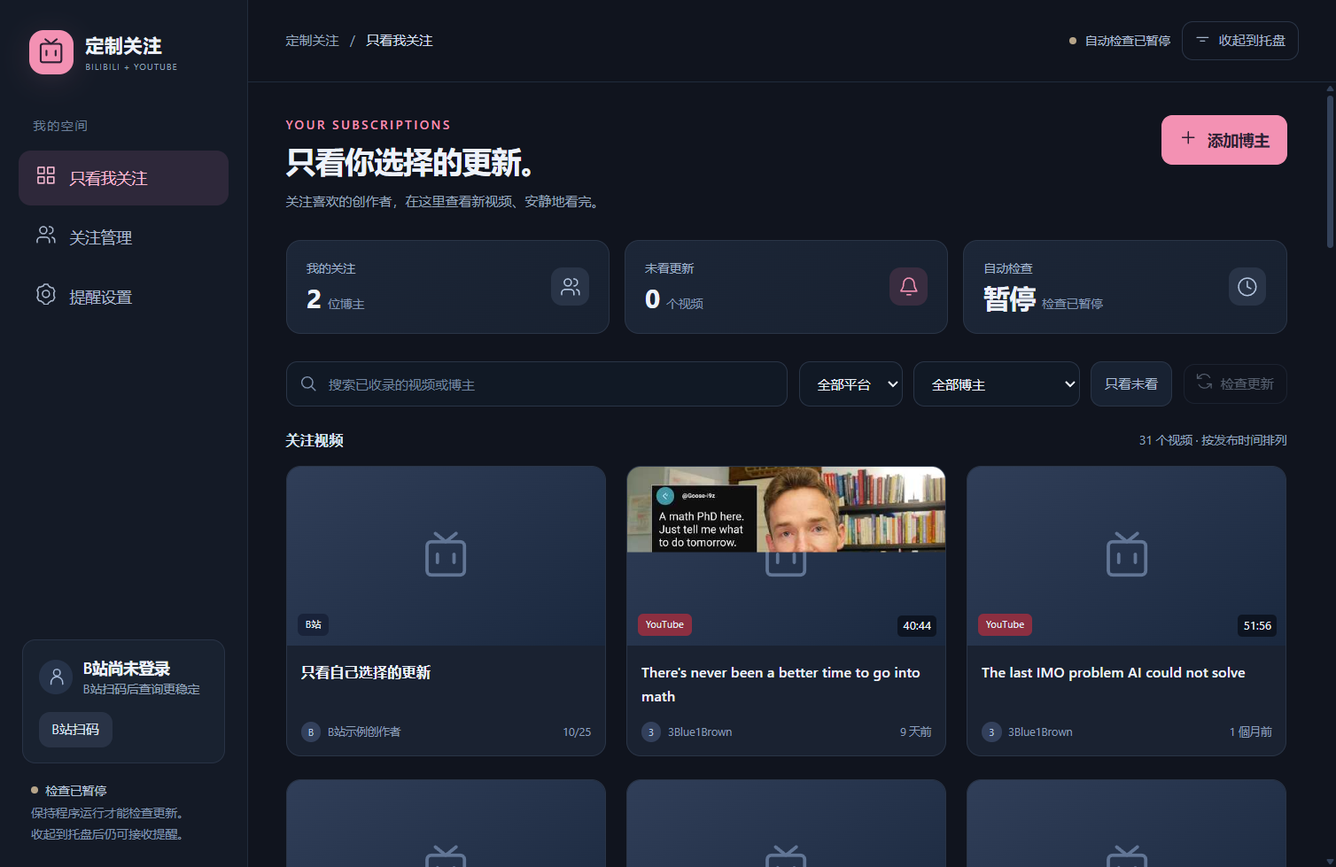
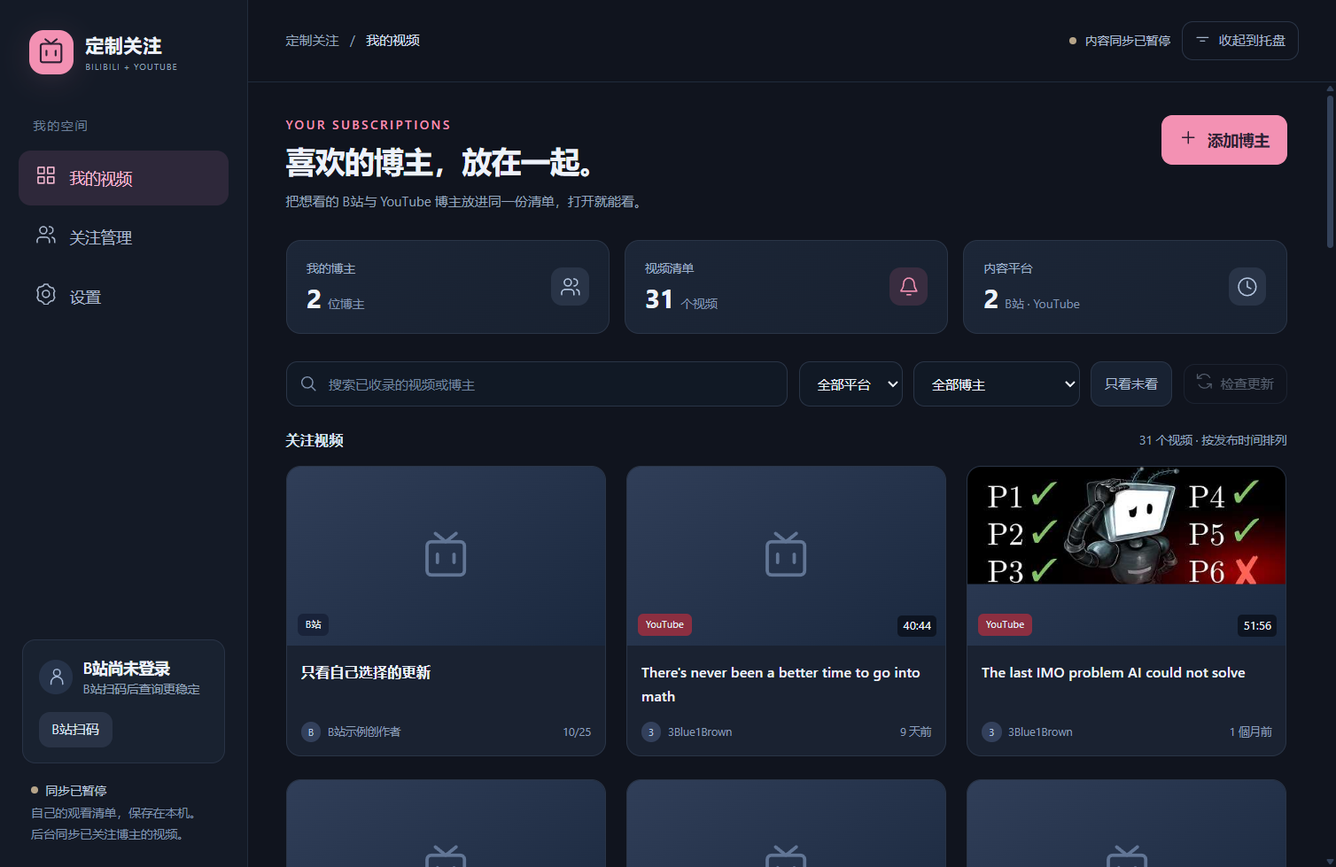
以定制关注统一呈现双平台博主和视频清单

diff --git a/assets/index.html b/assets/index.html
@@ -27,35 +27,35 @@
     <div class="brand"><div class="brand-symbol" data-icon="tv"></div><div><div class="brand-title">定制关注</div><div class="brand-sub">BILIBILI + YOUTUBE</div></div></div>
     <div class="section-caption">我的空间</div>
     <nav aria-label="主要导航">
-      <button class="nav-item active" data-page="feed"><span data-icon="grid"></span><span>只看我关注</span><span class="nav-count" id="navUnread" hidden>0</span></button>
+      <button class="nav-item active" data-page="feed"><span data-icon="grid"></span><span>我的视频</span><span class="nav-count" id="navUnread" hidden>0</span></button>
       <button class="nav-item" data-page="channels"><span data-icon="users"></span><span>关注管理</span></button>
-      <button class="nav-item" data-page="settings"><span data-icon="settings"></span><span>提醒设置</span></button>
+      <button class="nav-item" data-page="settings"><span data-icon="settings"></span><span>设置</span></button>
     </nav>
     <div class="sidebar-bottom">
       <div class="account-card"><div class="account-top"><div class="account-avatar" data-icon="user"></div><div><div class="account-name" id="accountName">尚未登录</div><div class="account-state" id="accountState">扫码后查询更稳定</div></div></div><div class="account-actions"><button id="loginButton">扫码登录</button><button id="logoutButton" hidden>退出登录</button></div></div>
-      <div class="local-note"><strong><span class="status-dot" id="sidebarDot"></span><span id="sidebarStatus">本地运行</span></strong>保持程序运行才能检查更新。<br>收起到托盘后仍可接收提醒。</div>
+      <div class="local-note"><strong><span class="status-dot" id="sidebarDot"></span><span id="sidebarStatus">本地运行</span></strong>自己的观看清单，保存在本机。<br>后台同步已关注博主的视频。</div>
     </div>
   </aside>
   <main class="main">
-    <header class="topbar"><div class="breadcrumb"><span>定制关注</span><span>/</span><b id="breadcrumbTitle">只看我关注</b></div><div class="top-actions"><div class="status-chip"><span class="status-dot" id="topDot"></span><span id="monitorStatus">正在连接本地服务…</span></div><button class="subtle" id="hideButton" title="收起到右下角系统托盘，继续检查更新"><span data-icon="minimize"></span>收起到托盘</button></div></header>
+    <header class="topbar"><div class="breadcrumb"><span>定制关注</span><span>/</span><b id="breadcrumbTitle">我的视频</b></div><div class="top-actions"><div class="status-chip"><span class="status-dot" id="topDot"></span><span id="monitorStatus">正在连接本地服务…</span></div><button class="subtle" id="hideButton" title="收起到右下角系统托盘，继续检查更新"><span data-icon="minimize"></span>收起到托盘</button></div></header>
     <div class="scroll-area" id="scrollArea">
       <div class="warning-banner" id="globalWarning" hidden><span data-icon="info"></span><span id="warningText"></span></div>
       <section class="page" id="feedPage">
-        <div class="page-head"><div><div class="eyebrow">YOUR SUBSCRIPTIONS</div><h1>只看你选择的更新。</h1><p class="description">关注喜欢的创作者，在这里查看新视频、安静地看完。</p></div><button class="primary" id="feedAddButton"><span data-icon="plus"></span>添加博主</button></div>
-        <div class="summary-row"><div class="summary-card"><div><div class="summary-label">我的关注</div><div class="summary-value"><span id="channelCount">0</span><span class="summary-unit">位博主</span></div></div><div class="summary-icon" data-icon="users"></div></div><div class="summary-card"><div><div class="summary-label">未看更新</div><div class="summary-value"><span id="unreadCount">0</span><span class="summary-unit">个视频</span></div></div><div class="summary-icon pink" data-icon="bell"></div></div><div class="summary-card"><div><div class="summary-label">自动检查</div><div class="summary-value"><span id="intervalCount">5</span><span class="summary-unit" id="intervalUnit">分钟 / 次</span></div></div><div class="summary-icon" data-icon="clock"></div></div></div>
+        <div class="page-head"><div><div class="eyebrow">YOUR SUBSCRIPTIONS</div><h1>喜欢的博主，放在一起。</h1><p class="description">把想看的 B站与 YouTube 博主放进同一份清单，打开就能看。</p></div><button class="primary" id="feedAddButton"><span data-icon="plus"></span>添加博主</button></div>
+        <div class="summary-row"><div class="summary-card"><div><div class="summary-label">我的博主</div><div class="summary-value"><span id="channelCount">0</span><span class="summary-unit">位博主</span></div></div><div class="summary-icon" data-icon="users"></div></div><div class="summary-card"><div><div class="summary-label">视频清单</div><div class="summary-value"><span id="unreadCount">0</span><span class="summary-unit">个视频</span></div></div><div class="summary-icon pink" data-icon="bell"></div></div><div class="summary-card"><div><div class="summary-label">内容平台</div><div class="summary-value"><span id="intervalCount">2</span><span class="summary-unit" id="intervalUnit">B站 · YouTube</span></div></div><div class="summary-icon" data-icon="clock"></div></div></div>
         <div class="toolbar"><div class="search-wrap"><span data-icon="search"></span><input id="videoSearch" placeholder="搜索已收录的视频或博主" aria-label="搜索已收录的视频或博主"></div><select id="platformFilter" aria-label="按平台筛选"><option value="">全部平台</option><option value="bilibili">B站</option><option value="youtube">YouTube</option></select><select id="channelFilter" aria-label="按博主筛选"><option value="">全部博主</option></select><button class="filter-toggle" id="unreadFilter" aria-pressed="false">只看未看</button><button class="subtle" id="refreshButton"><span data-icon="refresh"></span>检查更新</button></div>
         <div class="result-line"><strong id="resultTitle">关注视频</strong><span id="resultCount">0 个视频 · 按发布时间排列</span></div><div class="video-grid" id="videoGrid"></div><div id="feedEmpty" class="empty"></div>
-        <div class="feed-footnote"><span data-icon="info"></span><span>首次添加会收录近期视频，不弹出历史更新提醒。这里仅展示你手动添加的博主。</span></div>
+        <div class="feed-footnote"><span data-icon="info"></span><span>这里汇集你添加的 B站与 YouTube 博主，按平台或博主筛选即可。</span></div>
       </section>
       <section class="page" id="channelsPage" hidden>
-        <div class="page-head"><div><div class="eyebrow">CHOOSE YOUR CREATORS</div><h1>把关注留给喜欢的内容。</h1><p class="description">独立管理这份列表，不会更改你在 B站或 YouTube 的订阅关系。</p></div><button class="subtle" id="channelRefresh"><span data-icon="refresh"></span>检查更新</button></div>
+        <div class="page-head"><div><div class="eyebrow">CHOOSE YOUR CREATORS</div><h1>管理我的博主。</h1><p class="description">把想看的两个平台博主加入同一份清单，随时添加或移除。</p></div><button class="subtle" id="channelRefresh"><span data-icon="refresh"></span>检查更新</button></div>
         <div class="add-box"><div class="add-heading"><span data-icon="plus"></span><h2>添加博主</h2></div><p class="description">选择平台，再添加博主或频道。YouTube 支持频道主页链接、@账号与频道 ID。</p><div class="add-form"><select id="creatorPlatform" aria-label="添加平台"><option value="bilibili">B站</option><option value="youtube">YouTube</option></select><input id="uidInput" placeholder="昵称（如：毕导）、数字 UID 或博主主页链接" aria-label="博主昵称、主页链接或 UID"><button class="primary" id="addButton">查找 / 添加</button></div><p class="add-hint" id="creatorHint">昵称查找只列出博主候选，由你选择后再添加。添加后会开始首次检查。</p></div>
         <div class="result-line"><strong id="managedCount">我的关注 · 0 位</strong><span>可随时暂停单个博主的检查</span></div><div class="channel-list" id="channelList"></div><div class="empty" id="channelEmpty"><div class="empty-icon" data-icon="users"></div><h2>还没有添加博主</h2><p>从一位喜欢的创作者开始。登录 B站后，在上方输入昵称、UID 或主页链接。</p></div>
       </section>
       <section class="page" id="settingsPage" hidden>
-        <div class="page-head"><div><div class="eyebrow">A QUIETER WAY TO FOLLOW</div><h1>按你的节奏提醒。</h1><p class="description">减少打扰，也保留每一次值得看的更新。</p></div></div>
+        <div class="page-head"><div><div class="eyebrow">MAKE IT YOURS</div><h1>按你的习惯使用。</h1><p class="description">调整内容同步、后台运行和可选的新视频通知。</p></div></div>
         <div class="setting-section"><div class="setting-title"><span data-icon="clock"></span><h2>检查频率</h2></div><div class="setting-row first"><div><h3>自动检查间隔</h3><p>建议 5 分钟或更久。B站限制请求时，程序会自动延后重试。</p></div><label class="setting-control"><input type="number" id="intervalSetting" min="3" max="60" step="1" value="5" aria-label="自动检查间隔，分钟">分钟</label></div><div class="setting-row"><div><h3>暂停所有检查</h3><p>已有的视频仍然可以查看，恢复后继续检查更新。</p></div><label class="switch"><input id="pausedSetting" type="checkbox" aria-label="暂停所有检查"><span class="switch-track"></span></label></div></div>
-        <div class="setting-section"><div class="setting-title"><span data-icon="bell"></span><h2>桌面提醒</h2></div><div class="setting-row first"><div><h3>新视频桌面弹窗</h3><p>右下角显示更新提醒，点击可回到程序查看视频。</p></div><label class="switch"><input id="popupsSetting" type="checkbox" checked aria-label="新视频桌面弹窗"><span class="switch-track"></span></label></div><div class="setting-row"><div><h3>提醒声音</h3><p>弹窗出现时播放一声提示音。</p></div><label class="switch"><input id="soundSetting" type="checkbox" aria-label="提醒声音"><span class="switch-track"></span></label></div><div class="setting-row"><div><h3>免打扰时段</h3><p>此时段继续检查并记录更新，暂不弹窗和响铃。</p></div><label class="switch"><input id="quietSetting" type="checkbox" aria-label="免打扰时段"><span class="switch-track"></span></label></div><div class="time-controls"><label for="quietStart">从</label><input type="time" id="quietStart" value="23:00" aria-label="免打扰开始时间"><label for="quietEnd">到</label><input type="time" id="quietEnd" value="08:00" aria-label="免打扰结束时间"><span>可跨午夜；起止相同表示全天</span></div><div class="setting-row"><div><h3>试一下提醒效果</h3><p>发送一条测试弹窗，不会产生新的未看视频。</p></div><button class="subtle" id="testButton"><span data-icon="bell"></span>测试提醒</button></div></div>
+        <div class="setting-section"><div class="setting-title"><span data-icon="bell"></span><h2>新视频通知</h2></div><div class="setting-row first"><div><h3>新视频桌面弹窗</h3><p>可选的桌面通知，点击即可回到清单观看新视频。</p></div><label class="switch"><input id="popupsSetting" type="checkbox" checked aria-label="新视频桌面弹窗"><span class="switch-track"></span></label></div><div class="setting-row"><div><h3>提醒声音</h3><p>弹窗出现时播放一声提示音。</p></div><label class="switch"><input id="soundSetting" type="checkbox" aria-label="提醒声音"><span class="switch-track"></span></label></div><div class="setting-row"><div><h3>免打扰时段</h3><p>此时段继续检查并记录更新，暂不弹窗和响铃。</p></div><label class="switch"><input id="quietSetting" type="checkbox" aria-label="免打扰时段"><span class="switch-track"></span></label></div><div class="time-controls"><label for="quietStart">从</label><input type="time" id="quietStart" value="23:00" aria-label="免打扰开始时间"><label for="quietEnd">到</label><input type="time" id="quietEnd" value="08:00" aria-label="免打扰结束时间"><span>可跨午夜；起止相同表示全天</span></div><div class="setting-row"><div><h3>试一下提醒效果</h3><p>发送一条测试弹窗，不会产生新的未看视频。</p></div><button class="subtle" id="testButton"><span data-icon="bell"></span>测试提醒</button></div></div>
         <div class="setting-section"><div class="setting-title"><span data-icon="desktop"></span><h2>启动与后台</h2></div><div class="setting-row first"><div><h3>开机后自动运行</h3><p>登录 Windows 后在托盘运行，开始检查已添加的博主。</p></div><label class="switch"><input id="autostartSetting" type="checkbox" aria-label="开机后自动运行"><span class="switch-track"></span></label></div><div class="setting-save"><p class="description" id="settingsSaveHint">设置保存在这台电脑上。</p><button class="primary" id="saveSettings">保存设置</button></div></div>
         <div class="quit-row"><p>关闭窗口会收起到托盘。完全退出后不再检查更新；电脑休眠或关机时也无法提醒。</p><button class="subtle danger" id="quitButton"><span data-icon="power"></span>完全退出程序</button></div>
       </section>
@@ -89,11 +89,11 @@ async function call(name,...args){try{if(!window.pywebview?.api?.[name]){toast('
 function formatDate(ts,detail=false){if(!ts)return '尚未检查';const d=new Date(Number(ts)*1000);if(!Number.isFinite(d.getTime()))return '时间未知';return d.toLocaleString('zh-CN',detail?{month:'2-digit',day:'2-digit',hour:'2-digit',minute:'2-digit',hour12:false}:{month:'2-digit',day:'2-digit'});}
 function nextLabel(c){if(!c.enabled)return '已暂停';if(state.settings.paused)return '全局暂停中';if(!c.next_check||Number(c.next_check)<=Date.now()/1000)return '等待检查';return formatDate(c.next_check,true);}
 function visibleVideos(){const q=$('videoSearch').value.trim().toLocaleLowerCase(),uid=$('channelFilter').value,platform=$('platformFilter').value,ids=new Set(state.channels.map(c=>c.uid));return state.videos.filter(v=>ids.has(v.uid)&&(!uid||v.uid===uid)&&(!platform||(v.platform||'bilibili')===platform)&&(!onlyUnread||!v.read)&&(!q||(String(v.title)+' '+String(v.author)).toLocaleLowerCase().includes(q)));}
-function setPage(page){if(page!=='player')unloadPlayer();currentPage=page;for(const p of ['feed','channels','settings','player'])$(p+'Page').hidden=p!==page;document.querySelectorAll('[data-page]').forEach(b=>b.classList.toggle('active',b.dataset.page===(page==='player'?'feed':page)));$('breadcrumbTitle').textContent={feed:'只看我关注',channels:'关注管理',settings:'提醒设置',player:'专注播放'}[page];$('scrollArea').scrollTop=0;if(page==='settings'&&!settingsDirty)loadSettings();if(page==='channels')renderChannels();}
-function updateHeader(){const runtime=state.runtime||{},s=state.settings;const unread=state.videos.filter(v=>!v.read).length;$('channelCount').textContent=state.channels.length;$('unreadCount').textContent=unread;$('navUnread').textContent=unread;$('navUnread').hidden=!unread;$('intervalCount').textContent=s.paused?'暂停':s.interval_minutes;$('intervalUnit').textContent=s.paused?'检查已暂停':'分钟 / 次';$('managedCount').textContent='我的关注 · '+state.channels.length+' 位';$('accountName').textContent=runtime.account||'B站尚未登录';$('accountName').title=runtime.account||'B站尚未登录';$('accountState').textContent=runtime.account_valid?'已连接 B站账号':runtime.account?'登录状态待验证':'B站扫码后查询更稳定';$('loginButton').textContent=runtime.account?'重新扫码':'B站扫码';$('logoutButton').hidden=!runtime.account;$('warningText').textContent=runtime.warning||'';$('globalWarning').hidden=!runtime.warning;const status=s.paused?'自动检查已暂停':runtime.checking?'正在检查 '+runtime.checking:'每 '+s.interval_minutes+' 分钟检查';$('monitorStatus').textContent=status;$('monitorStatus').title=status;$('sidebarStatus').textContent=s.paused?'检查已暂停':'本地运行中';for(const id of ['topDot','sidebarDot'])$(id).style.background=s.paused?'#b6a489':'var(--green)';$('refreshButton').disabled=Boolean(runtime.checking)||s.paused;$('channelRefresh').disabled=Boolean(runtime.checking)||s.paused;}
+function setPage(page){if(page!=='player')unloadPlayer();currentPage=page;for(const p of ['feed','channels','settings','player'])$(p+'Page').hidden=p!==page;document.querySelectorAll('[data-page]').forEach(b=>b.classList.toggle('active',b.dataset.page===(page==='player'?'feed':page)));$('breadcrumbTitle').textContent={feed:'我的视频',channels:'关注管理',settings:'设置',player:'专注播放'}[page];$('scrollArea').scrollTop=0;if(page==='settings'&&!settingsDirty)loadSettings();if(page==='channels')renderChannels();}
+function updateHeader(){const runtime=state.runtime||{},s=state.settings;const unread=state.videos.filter(v=>!v.read).length;$('channelCount').textContent=state.channels.length;$('unreadCount').textContent=state.videos.length;$('navUnread').textContent=unread;$('navUnread').hidden=!unread;$('intervalCount').textContent=2;$('intervalUnit').textContent='B站 · YouTube';$('managedCount').textContent='我的关注 · '+state.channels.length+' 位';$('accountName').textContent=runtime.account||'B站尚未登录';$('accountName').title=runtime.account||'B站尚未登录';$('accountState').textContent=runtime.account_valid?'已连接 B站账号':runtime.account?'登录状态待验证':'B站扫码后查询更稳定';$('loginButton').textContent=runtime.account?'重新扫码':'B站扫码';$('logoutButton').hidden=!runtime.account;$('warningText').textContent=runtime.warning||'';$('globalWarning').hidden=!runtime.warning;const status=s.paused?'内容同步已暂停':runtime.checking?'正在同步 '+runtime.checking:'B站 · YouTube';$('monitorStatus').textContent=status;$('monitorStatus').title=status;$('sidebarStatus').textContent=s.paused?'同步已暂停':'本地运行中';for(const id of ['topDot','sidebarDot'])$(id).style.background=s.paused?'#b6a489':'var(--green)';$('refreshButton').disabled=Boolean(runtime.checking)||s.paused;$('channelRefresh').disabled=Boolean(runtime.checking)||s.paused;}
 function updateChannelFilter(){const select=$('channelFilter'),value=select.value,platform=$('platformFilter').value;const channels=state.channels.filter(c=>!platform||(c.platform||'bilibili')===platform);const options=[el('option','','全部博主')];options[0].value='';for(const c of channels){const o=el('option','',(c.platform==='youtube'?'YouTube · ':'B站 · ')+c.name);o.value=c.uid;options.push(o);}select.replaceChildren(...options);select.value=channels.some(c=>c.uid===value)?value:'';}
 function renderEmpty(container,title,copy,actions=[],symbol='tv'){const mark=el('div','empty-icon');mark.append(icon(symbol));container.replaceChildren(mark,el('h2','',title),el('p','',copy));if(actions.length){const row=el('div','empty-actions');row.append(...actions);container.append(row);}}
-function renderVideos(){const videos=visibleVideos();$('resultCount').textContent=videos.length+' 个视频 · 按发布时间排列';$('resultTitle').textContent=onlyUnread?'未看更新':'关注视频';$('videoGrid').replaceChildren();$('feedEmpty').hidden=videos.length>0;for(const video of videos){const card=el('article','video-card');card.tabIndex=0;card.setAttribute('role','button');card.setAttribute('aria-label','播放 '+video.title);const play=()=>openVideo(video.key);card.addEventListener('click',play);card.addEventListener('keydown',e=>{if(e.key==='Enter'||e.key===' '){e.preventDefault();play();}});const cover=el('div','cover'),placeholder=el('div','cover-placeholder');placeholder.append(icon('tv'));cover.append(placeholder);if(typeof video.cover==='string'&&/^https:\/\/(?:[a-z0-9.-]+\.hdslb\.com|i\.ytimg\.com)\//i.test(video.cover)){const img=el('img');img.src=video.cover;img.alt='';img.loading='lazy';img.referrerPolicy='no-referrer';img.addEventListener('error',()=>img.remove());cover.append(img);}cover.append(el('span','platform-badge'+(video.platform==='youtube'?' youtube':''),video.platform==='youtube'?'YouTube':'B站'));const overlay=el('div','play-overlay');overlay.append(icon('play'));cover.append(overlay);if(video.duration)cover.append(el('span','duration',video.duration));if(!video.read)cover.append(el('span','unread-badge','未看更新'));const body=el('div','video-body'),title=el('div','video-title',video.title);title.title=video.title;const meta=el('div','video-meta');meta.append(el('span','author-dot',String(video.author||'UP').slice(0,1)),el('span','video-author',video.author||'博主'),el('span','video-date',video.timestamp_approximate?(video.published_label||'最近收录'):formatDate(video.published_at)));meta.title=video.timestamp_approximate?'YouTube 页面提供的相对时间，为近似值；更新按新视频编号识别。':'';body.append(title,meta);card.append(cover,body);$('videoGrid').append(card);}if(!videos.length){if(!state.channels.length){renderEmpty($('feedEmpty'),'让喜欢的博主，在这里更新。','选择 B站或 YouTube，添加想看的创作者。新视频会出现在这里，也会在桌面提醒你。',[button('添加博主 / 频道','primary',focusAdd,'plus')]);}else if(state.videos.length){renderEmpty($('feedEmpty'),'这里暂时没有匹配的视频。','试试切换博主、修改关键词，或查看全部已收录的视频。',[button('清除筛选','secondary',()=>{$('videoSearch').value='';$('channelFilter').value='';$('platformFilter').value='';updateChannelFilter();onlyUnread=false;updateUnreadButton();renderVideos();})],'search');}else{const error=state.channels.some(c=>c.error);renderEmpty($('feedEmpty'),error?'还没有成功取得视频。':'正在等待首次检查。',error?'请到关注管理查看具体错误。B站遇到登录限制可扫码；YouTube 请确认网络能正常访问。':'首次检查会收录近期视频。平台限制请求时会延后重试，可在关注管理查看进度。',[button('查看博主状态','secondary',()=>setPage('channels'),'users'),...(!state.runtime.account_valid&&state.channels.some(c=>c.platform!=='youtube')?[button('B站扫码登录','primary',openQr,'user')]:[])]);}}}
+function renderVideos(){const videos=visibleVideos();$('resultCount').textContent=videos.length+' 个视频 · 按发布时间排列';$('resultTitle').textContent=onlyUnread?'未看更新':'关注视频';$('videoGrid').replaceChildren();$('feedEmpty').hidden=videos.length>0;for(const video of videos){const card=el('article','video-card');card.tabIndex=0;card.setAttribute('role','button');card.setAttribute('aria-label','播放 '+video.title);const play=()=>openVideo(video.key);card.addEventListener('click',play);card.addEventListener('keydown',e=>{if(e.key==='Enter'||e.key===' '){e.preventDefault();play();}});const cover=el('div','cover'),placeholder=el('div','cover-placeholder');placeholder.append(icon('tv'));cover.append(placeholder);if(typeof video.cover==='string'&&/^https:\/\/(?:[a-z0-9.-]+\.hdslb\.com|i\.ytimg\.com)\//i.test(video.cover)){const img=el('img');img.src=video.cover;img.alt='';img.loading='lazy';img.referrerPolicy='no-referrer';img.addEventListener('error',()=>img.remove());cover.append(img);}cover.append(el('span','platform-badge'+(video.platform==='youtube'?' youtube':''),video.platform==='youtube'?'YouTube':'B站'));const overlay=el('div','play-overlay');overlay.append(icon('play'));cover.append(overlay);if(video.duration)cover.append(el('span','duration',video.duration));if(!video.read)cover.append(el('span','unread-badge','未看更新'));const body=el('div','video-body'),title=el('div','video-title',video.title);title.title=video.title;const meta=el('div','video-meta');meta.append(el('span','author-dot',String(video.author||'UP').slice(0,1)),el('span','video-author',video.author||'博主'),el('span','video-date',video.timestamp_approximate?(video.published_label||'最近收录'):formatDate(video.published_at)));meta.title=video.timestamp_approximate?'YouTube 页面提供的相对时间，为近似值；更新按新视频编号识别。':'';body.append(title,meta);card.append(cover,body);$('videoGrid').append(card);}if(!videos.length){if(!state.channels.length){renderEmpty($('feedEmpty'),'把喜欢的博主放进来。','选择 B站或 YouTube，添加想看的创作者，在一个地方浏览和观看。',[button('添加博主 / 频道','primary',focusAdd,'plus')]);}else if(state.videos.length){renderEmpty($('feedEmpty'),'这里暂时没有匹配的视频。','试试切换博主、修改关键词，或查看全部已收录的视频。',[button('清除筛选','secondary',()=>{$('videoSearch').value='';$('channelFilter').value='';$('platformFilter').value='';updateChannelFilter();onlyUnread=false;updateUnreadButton();renderVideos();})],'search');}else{const error=state.channels.some(c=>c.error);renderEmpty($('feedEmpty'),error?'还没有成功取得视频。':'正在等待首次检查。',error?'请到关注管理查看具体错误。B站遇到登录限制可扫码；YouTube 请确认网络能正常访问。':'首次检查会收录近期视频。平台限制请求时会延后重试，可在关注管理查看进度。',[button('查看博主状态','secondary',()=>setPage('channels'),'users'),...(!state.runtime.account_valid&&state.channels.some(c=>c.platform!=='youtube')?[button('B站扫码登录','primary',openQr,'user')]:[])]);}}}
 function renderChannels(){const list=$('channelList');list.replaceChildren();$('channelEmpty').hidden=state.channels.length>0;for(const c of state.channels){const card=el('article','channel-card'),main=el('div','channel-main'),identity=el('div','channel-identity'),avatar=el('div','channel-avatar',String(c.name||'UP').slice(0,1));identity.append(el('div','channel-name',c.name),el('div','channel-uid',(c.platform==='youtube'?'YouTube · ':'B站 · UID ')+(c.channel_id||c.uid)));const busy=state.runtime.checking&&(state.runtime.checking===c.name||state.runtime.checking===c.uid);let label='检查正常',cls='';if(!c.enabled){label='已暂停';cls=' paused';}else if(state.settings.paused){label='全局暂停';cls=' paused';}else if(busy){label='正在检查';cls=' pending';}else if(c.error){label='等待重试';cls=' error';}else if(!c.initialized){label='等待首次检查';cls=' pending';}const actions=el('div','channel-actions');actions.append(el('span','channel-status'+cls,label),button(c.enabled?'暂停':'恢复','text-button',()=>call('toggle_channel',c.uid)),button('主页','text-button',()=>call('open_space',c.uid)),button('移除','text-button danger',()=>askRemove(c)));main.append(avatar,identity,actions);card.append(main);const details=el('div','channel-detail');details.append(el('span','', '最近检查：'+formatDate(c.checked_at,true)),el('span','', '下次检查：'+nextLabel(c)));card.append(details);if(c.error)card.append(el('div','channel-error',c.error));if(c.platform==='youtube'&&c.source==='channel_page')card.append(el('div','channel-source','监测频道的公开视频页，发布时间为近似值；Shorts 与直播分栏暂不包含。'));if(c.latest?.title)card.append(el('div','channel-latest','最近收录：'+c.latest.title));list.append(card);}}
 function updateUnreadButton(){$('unreadFilter').classList.toggle('active',onlyUnread);$('unreadFilter').setAttribute('aria-pressed',String(onlyUnread));}
 window.receiveState=function(data){if(!data||!Array.isArray(data.channels)||!Array.isArray(data.videos))return;state=data;state.runtime=state.runtime||{};updateHeader();updateChannelFilter();renderVideos();if(currentPage==='channels')renderChannels();if(!settingsLoaded||currentPage==='settings'&&!settingsDirty)loadSettings();if(playing){if(!state.videos.some(v=>v.key===playing.key)){stopPlayer();toast('当前视频已随博主移出关注列表。');}else updatePlayerNavigation();}};
@@ -111,7 +111,7 @@ async function checkNow(){const r=await call('check_now');if(r?.ok)toast('已安
 function askRemove(c){removeUid=c.uid;$('confirmCopy').textContent='移除「'+c.name+'」后，将停止检查，并移除本程序中这位博主的视频记录。你的 B站关注关系不会改变。';$('confirmModal').hidden=false;$('cancelRemove').focus();}
 function closeRemove(){removeUid=null;$('confirmModal').hidden=true;}
 async function removeChannel(){if(!removeUid)return;const uid=removeUid;$('confirmRemove').disabled=true;try{const r=await call('remove_channel',uid);if(r?.ok){closeRemove();toast('已从本地关注列表移除。');}}finally{$('confirmRemove').disabled=false;}}
-async function saveSettings(){const minutes=Number($('intervalSetting').value);if(!Number.isInteger(minutes)||minutes<3||minutes>60){toast('检查间隔请填写 3 至 60 分钟的整数。',true);return;}const settings={interval_minutes:minutes,paused:$('pausedSetting').checked,popups:$('popupsSetting').checked,sound:$('soundSetting').checked,quiet_enabled:$('quietSetting').checked,quiet_start:$('quietStart').value,quiet_end:$('quietEnd').value,autostart:$('autostartSetting').checked};$('saveSettings').disabled=true;try{const r=await call('save_settings',settings);if(r?.ok){settingsDirty=false;$('settingsSaveHint').textContent='设置已保存，下次启动会继续使用。';toast('提醒设置已保存。');}}finally{$('saveSettings').disabled=false;}}
+async function saveSettings(){const minutes=Number($('intervalSetting').value);if(!Number.isInteger(minutes)||minutes<3||minutes>60){toast('检查间隔请填写 3 至 60 分钟的整数。',true);return;}const settings={interval_minutes:minutes,paused:$('pausedSetting').checked,popups:$('popupsSetting').checked,sound:$('soundSetting').checked,quiet_enabled:$('quietSetting').checked,quiet_start:$('quietStart').value,quiet_end:$('quietEnd').value,autostart:$('autostartSetting').checked};$('saveSettings').disabled=true;try{const r=await call('save_settings',settings);if(r?.ok){settingsDirty=false;$('settingsSaveHint').textContent='设置已保存，下次启动会继续使用。';toast('设置已保存。');}}finally{$('saveSettings').disabled=false;}}
 function removeEmbeddedPlayer(){const frame=$('playerShell').querySelector('iframe');if(frame)frame.remove();}
 function serializeFocus(action){const next=focusCalls.then(action,action);focusCalls=next.catch(()=>null);return next;}
 function closeFocusWindow(){if(!focusMayBeOpen)return focusCalls;return serializeFocus(async()=>{const r=await call('close_focus_video');if(r?.ok)focusMayBeOpen=false;return r;});}

diff --git a/assets/notification.html b/assets/notification.html
@@ -4,7 +4,7 @@
   <meta charset="utf-8">
   <meta name="viewport" content="width=device-width, initial-scale=1">
   <meta http-equiv="Content-Security-Policy" content="default-src 'none'; script-src 'unsafe-inline' 'unsafe-eval'; style-src 'unsafe-inline'; connect-src 'self'; img-src data:; base-uri 'none'; form-action 'none'; frame-src 'none'; object-src 'none'">
-  <title>B站更新提醒</title>
+  <title>定制关注 · 新视频</title>
   <style>
     :root { color-scheme: dark; font-family: "Microsoft YaHei UI", "Microsoft YaHei", sans-serif; }
     * { box-sizing: border-box; }
@@ -33,11 +33,11 @@
   </style>
 </head>
 <body>
-  <section class="notification" aria-label="B站更新提醒">
+  <section class="notification" aria-label="定制关注 · 新视频">
     <header class="header">
       <div class="brand">
         <svg viewBox="0 0 24 24" fill="none" aria-hidden="true"><path d="m7 3 3 4m7-4-3 4" stroke="currentColor" stroke-width="1.8" stroke-linecap="round"/><rect x="3" y="7" width="18" height="14" rx="4" stroke="currentColor" stroke-width="1.8"/><path d="M8 12v3m8-3v3m-6 3h4" stroke="currentColor" stroke-width="1.8" stroke-linecap="round"/></svg>
-        <span>B站 UP 主提醒</span>
+        <span>定制关注</span>
       </div>
       <button id="dismiss" class="close" type="button" aria-label="关闭提醒" title="关闭提醒" disabled>
         <svg viewBox="0 0 16 16" fill="none" aria-hidden="true"><path d="m4 4 8 8m0-8-8 8" stroke="currentColor" stroke-width="1.5" stroke-linecap="round"/></svg>
@@ -45,10 +45,10 @@
     </header>
     <div class="content" aria-live="polite" aria-atomic="true">
       <h1 id="title">有新视频，等你来看</h1>
-      <p id="body">关注的 UP 主有新投稿时，会在这里提醒你。</p>
+      <p id="body">关注的博主有新视频时，可从这里打开观看。</p>
     </div>
     <footer class="footer">
-      <span class="hint">只关注你选择的 UP 主</span>
+      <span class="hint">你选择的博主，都在这里</span>
       <button id="open" class="open" type="button" disabled>
         <span>在程序内查看</span>
         <svg viewBox="0 0 16 16" fill="none" aria-hidden="true"><path d="M3 8h10M9 4l4 4-4 4" stroke="currentColor" stroke-width="1.5" stroke-linecap="round" stroke-linejoin="round"/></svg>

diff --git a/main.py b/main.py
@@ -174,7 +174,7 @@ class Application:
                             continue
                         news = self.store.ingest(channel['uid'], feed)
                         if getattr(feed, 'has_more', False) and channel.get('initialized'):
-                            self.warning = '离线期间更新较多，本次仅检查了有限页数；更早投稿可在 UP 主空间查看。'
+                            self.warning = '离线期间更新较多，本次仅检查了有限页数；更早投稿可在 博主主页查看。'
                         if news:
                             settings = self.store.snapshot()['settings']
                             if settings['popups'] and not is_quiet(settings):
@@ -226,7 +226,7 @@ class Application:
             self.warning = '弹窗尚未就绪；更新仍保存在视频列表中。'
             return
         if test:
-            title, body, key = '桌面提醒已准备好', '关注的 UP 主发布新视频后，会在这里提醒你。', None
+            title, body, key = '新视频通知预览', '你关注的博主有新视频时，可从这里打开定制关注。', None
         else:
             first = videos[0]
             title = f"{first['author']} 更新了" + (f" {len(videos)} 个视频" if len(videos) > 1 else '新视频')
@@ -252,7 +252,7 @@ class Application:
             try:
                 set_autostart(True)
             except OSError:
-                self.warning = '开机启动路径未能更新，请在提醒设置中重新保存。'
+                self.warning = '开机启动路径未能更新，请在设置中重新保存。'
         self.tray = Tray(self.show, self.request_check, self.quit)
         self.tray_ok = self.tray.start()
         if not self.tray_ok:
@@ -292,7 +292,7 @@ class Api:
     def search_channels(self, keyword):
         text = str(keyword).strip()
         if not text or len(text) > 40 or '://' in text or 'bilibili.com' in text or 'b23.tv' in text:
-            return {'ok': False, 'error': '请输入 1～40 个字的 UP 主昵称；主页链接请直接添加。'}
+            return {'ok': False, 'error': '请输入 1～40 个字的 B站博主昵称；主页链接请直接添加。'}
         with self._app.search_lock:
             now = time.monotonic()
             if now - self._app.last_search < 5:
@@ -332,7 +332,7 @@ class Api:
             return {'ok': False, 'error': '检查已暂停，请先在设置中恢复检查。'}
         accepted = self._app.request_check()
         self._app.changed()
-        return {'ok': accepted, 'error': '' if accepted else '请至少间隔 60 秒再检查；失败退避中的 UP 主会按计划重试。'}
+        return {'ok': accepted, 'error': '' if accepted else '请至少间隔 60 秒再检查；暂时查询失败的博主会按计划重试。'}
 
     def play_video(self, key):
         video = next((v for v in self._app.store.snapshot()['videos'] if v['key'] == key), None)

diff --git a/README.md b/README.md
@@ -1,11 +1,11 @@
 # 定制关注
 
-把 B站和 YouTube 创作者放进自己的视频清单，收到新视频提醒后，在官方网页的专注窗口观看。
+一个自己的跨平台观看空间：把想看的 B站和 YouTube 博主放进同一份清单，在这里浏览和观看。
 
 ## 功能
 
 - **双平台关注**：B站支持昵称、UID、空间主页链接；YouTube 支持频道主页、`@handle`、`UC…` 频道 ID。
-- **更新提醒**：托盘后台检查、桌面弹窗、声音开关、跨午夜免打扰、失败退避与重复提醒去重。
+- **可选通知**：托盘后台检查、桌面弹窗、声音开关、跨午夜免打扰、失败退避与重复提醒去重。
 - **专注观看**：使用平台官方网页播放器，隐藏推荐栏、评论与页面信息流，保留画质、字幕和全屏选项。
 - **本地保存**：关注列表与设置保存在本机，B站扫码凭据由 Windows DPAPI 加密。公开的 YouTube 更新检查不需要 Google 登录。
 
